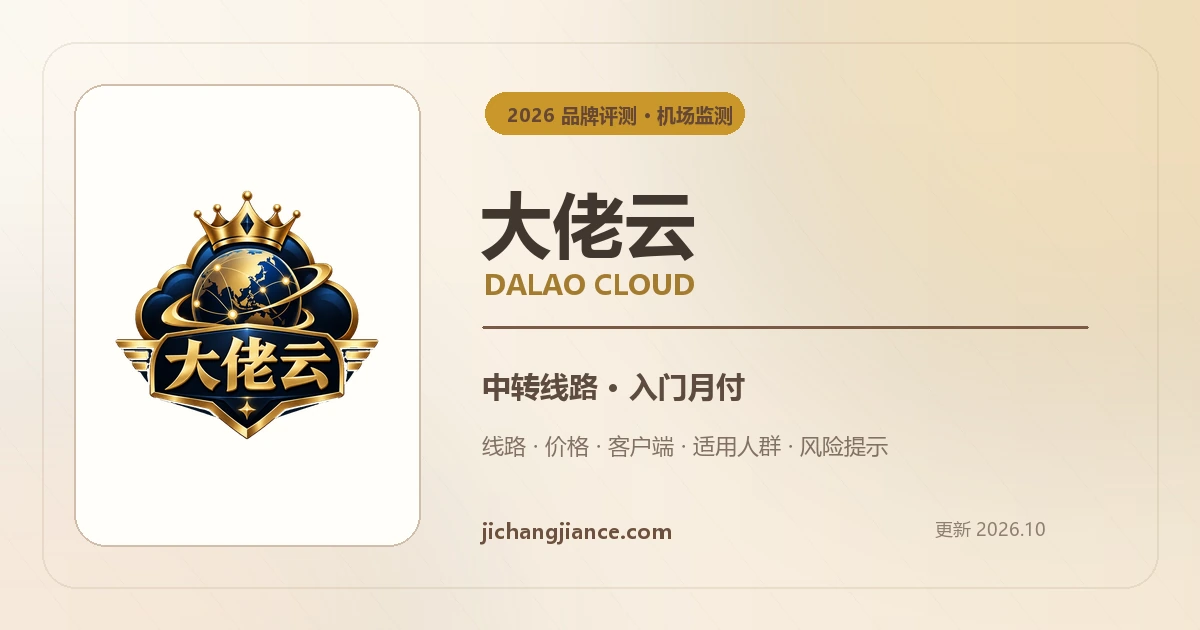
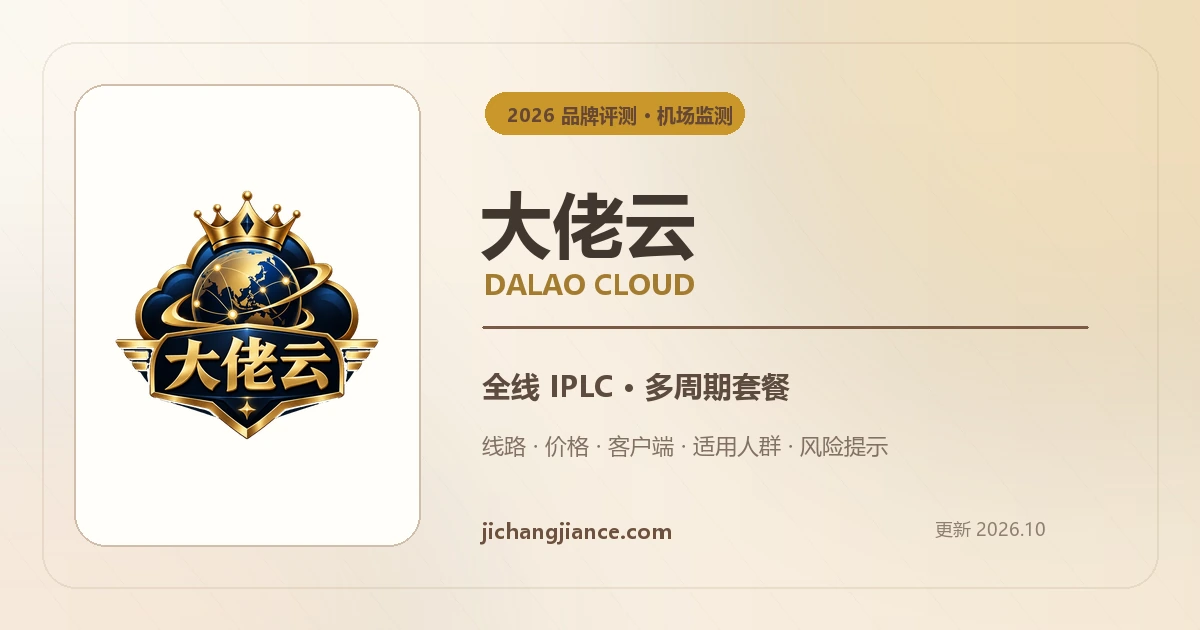
fix: update Dalao Cloud pricing

Changed region(s): [[0.4008, 0.573, 0.6783, 0.6333]]

diff --git a/src/data/brands.ts b/src/data/brands.ts
@@ -669,25 +669,28 @@ export const brands: BrandProfile[] = [
     logo: '/images/brands/logos/dalaoyun-logo.webp',
     cover: '/images/brands/covers/dalaoyun-cover-warm.webp',
     accent: '#c9972b',
-    recommendation: '入门中转型',
-    status: '性价比观察',
-    tagline: '动态中转 · Clash 订阅兼容',
-    description: '大佬云怎么样？整理大佬云 15 元起月付套餐、100GB 至 500GB 流量、动态中转、Clash 与 Shadowsocks 使用方式、优惠码 dly888 和适用人群。',
-    verdict: '适合需要基础中转线路、Clash 订阅和中等月流量的个人用户；公开资料更新节奏有限，建议先小额月付核验当前运营状态。',
-    lineArchitecture: '参考资料标注动态中转、30+ 节点和 Shadowsocks 协议；线路与节点会调整，应以购买后台和实际订阅为准。',
+    recommendation: 'IPLC 多档型',
+    status: '场景推荐',
+    tagline: '全线 IPLC · 原生 IP 与不限设备',
+    description: '大佬云怎么样？根据购买后台整理大佬云 19.99 元起月付套餐、96 元年付活动包、99/199 元一次性流量包、IPLC 专线、原生 IP、优惠码 dly888 和适用场景。',
+    verdict: '适合希望兼顾 IPLC 线路、原生 IP、多设备和灵活周期的用户；既有按月重置方案，也有年付轻量包与不限时一次性流量包。',
+    lineArchitecture: '购买后台标注全线 IPLC 专线、全节点 1 倍率、原生 IP、智能路由与不限设备同时在线；节点覆盖香港、台湾、日本、韩国、美国、新加坡及部分欧洲地区。',
     protocols: ['Shadowsocks'],
-    price: '¥15/月起（100GB）',
+    price: '¥19.99/月起；年付 ¥96',
     plans: [
-      { name: '基础套餐', price: '¥15/月', traffic: '100GB/月', note: '适合轻量浏览、聊天与基础视频' },
-      { name: '标准套餐', price: '¥20/月', traffic: '200GB/月', note: '适合个人日常使用与多端切换' },
-      { name: '进阶套餐', price: '¥30/月', traffic: '300GB/月', note: '适合中等频率视频和远程协作' },
-      { name: '高流量套餐', price: '¥50/月', traffic: '500GB/月', note: '适合更高流量需求，购买前核对设备限制' }
+      { name: '年付活动包', price: '¥96/年', traffic: '60GB/月', note: '折合约 8 元/月，全节点 1 倍率，每 30 天自动刷新流量' },
+      { name: '初云·福利版', price: '¥19.99/月', traffic: '100–120GB/月', note: '后台标签显示 100GB、说明区显示 120GB，付款前需核对最终口径' },
+      { name: '初云·进阶版', price: '¥25/月', traffic: '150GB/月', note: '全节点 1 倍率，适合日常浏览、AI 助手与影音娱乐' },
+      { name: '凌云·基础版', price: '¥43/月', traffic: '300GB/月', note: '覆盖多地区节点，适合日常、工作和学习' },
+      { name: '御云·高级版', price: '¥73/月', traffic: '600GB/月', note: '面向高强度使用与更高月流量需求' },
+      { name: '闲云·随心包', price: '¥99/次', traffic: '78GB 总量', note: '不限时、不按月重置，按实际使用扣减' },
+      { name: '悠云·长享包', price: '¥199/次', traffic: '160GB 总量', note: '不限时一次性流量包，适合长期低频使用' }
     ],
-    audience: ['Clash 用户', '个人日常浏览用户', '中等流量影音用户', '希望月付观察的用户'],
-    useCases: ['Clash 订阅', '日常网页与社交', '中等频率视频', '远程协作'],
-    strengths: ['15 元起的月付价格容易试用', '提供 100GB 至 500GB 四档流量', '公开资料标注支持 Clash 和 Shadowsocks', '提供用户确认的优惠码 dly888'],
-    considerations: ['参考资料显示同时在线设备数量可能较少，购买前应核对', '节点、线路与流媒体可用性可能变化', '公开评测更新时间不等于服务商当前状态', '首次使用优先月付，不建议仅因折扣选择多年周期'],
-    keywords: ['大佬云怎么样', '大佬云机场评测', '大佬云优惠码', '大佬云官网入口', '大佬云套餐价格', '15元机场', 'Clash机场推荐', 'Shadowsocks机场', '中转机场推荐'],
+    audience: ['轻量年付用户', '不限设备多端用户', '需要原生 IP 的影音与 AI 用户', '希望购买不限时流量包的低频用户'],
+    useCases: ['ChatGPT / Claude', 'Netflix / Disney+', '多设备与路由器', '长期低频备用'],
+    strengths: ['全线 IPLC 与全节点 1 倍率，流量成本更直观', '月付、年付和一次性流量包并存', '后台标注原生 IP、晚高峰不限速和不限设备', '提供用户确认的优惠码 dly888'],
+    considerations: ['福利版卡片与说明区分别显示 100GB 和 120GB，购买前必须核对', '不限设备仍应遵守个人合理使用与账号共享规则', '原生 IP 和流媒体解锁会随节点出口调整', '长周期或一次性套餐购买前应先验证常用节点和售后'],
+    keywords: ['大佬云怎么样', '大佬云机场评测', '大佬云优惠码', '大佬云官网入口', '大佬云套餐价格', '大佬云年付96元', '19.99元机场', 'IPLC专线机场', '原生IP机场', '一次性流量机场'],
     referralUrl: 'https://liu01.dalaoyunaff.com/#/?code=P8KlGHa6',
     couponCode: 'dly888',
     linkVerified: true,
@@ -697,24 +700,25 @@ export const brands: BrandProfile[] = [
     featured: true,
     sections: [
       {
-        title: '大佬云的套餐和定位',
+        title: '大佬云最新套餐怎么选？',
         paragraphs: [
-          '大佬云目前可参考的月付方案从 15 元 100GB 起，20 元提供 200GB，30 元提供 300GB，50 元提供 500GB。价格阶梯直观，适合按自己的实际月流量选择。',
-          '其公开定位更偏向个人中转与 Clash 使用，并不是以超大设备并发为核心。家庭共享或设备较多时，应在付款前确认同时在线限制。'
+          '月付套餐从初云·福利版 19.99 元开始，向上依次为 25 元 150GB、43 元 300GB 和 73 元 600GB。轻度用户还可以比较 96 元年付活动包，每 30 天刷新 60GB，折合约 8 元/月。',
+          '低频或备用需求可以关注 99 元 78GB 与 199 元 160GB 两个一次性流量包：流量不按月重置、使用期限标注为不限时，更适合长期慢慢使用。'
         ]
       },
       {
-        title: '为什么建议先月付核验？',
+        title: '线路、设备和解锁能力怎么看？',
         paragraphs: [
-          '机场线路与入口可能随时间变化，第三方文章中的节点数量、在线率和测试结果只能作为历史参考。更可靠的做法是用月付方案观察自己的本地运营商和常用时段。',
-          '连续测试应覆盖工作日晚高峰、周末和常用客户端，重点记录延迟、丢包、视频拖动以及故障后的恢复速度。'
+          '购买后台将全线 IPLC、原生 IP、全节点 1 倍率、智能路由与晚高峰不限速列为主要特点，并标注支持电脑、手机和路由器多端同时在线。',
+          '这些权益仍应通过自己的运营商和常用时段验证。建议先检查 ChatGPT、Claude、Netflix、Disney+ 的登录与连续使用，再决定是否购买年付或更高流量档。'
         ]
       }
     ],
     faq: [
       { question: '大佬云优惠码是什么？', answer: '本站当前记录的大佬云优惠码为 dly888，付款前请确认结算页已经应用优惠。' },
-      { question: '大佬云支持 Clash 吗？', answer: '参考资料标注支持 Clash 订阅和 Shadowsocks 协议，实际可导入格式应以当前后台为准。' },
-      { question: '大佬云适合多设备家庭吗？', answer: '公开资料中的设备并发信息较有限，多设备或家庭共享用户应在购买前向服务商确认同时在线规则。' }
+      { question: '大佬云最低多少钱？', answer: '当前月付最低参考价为 19.99 元；另有 96 元年付活动包，折合约 8 元/月。套餐价格和活动以结算页为准。' },
+      { question: '大佬云支持多设备吗？', answer: '购买后台标注不限设备同时在线，并兼容电脑、手机和路由器；仍应遵守服务商的个人使用与共享规则。' },
+      { question: '初云·福利版是 100GB 还是 120GB？', answer: '用户提供的后台截图中，套餐标签显示 100GB，但详情说明写着每月 120GB，存在两种口径。付款前应以订单确认页显示的最终流量为准。' }
     ]
   },
   {

diff --git a/scripts/generate-brand-covers.py b/scripts/generate-brand-covers.py
@@ -25,7 +25,7 @@ BRANDS = [
     ("huanyuyun", "环宇云", "HUANYUN CLOUD", "全球节点 · 资料待核验", "huanyuyun-logo.webp", "39bfe8"),
     ("kunpeng", "鲲鹏加速", "KUNPENG JIASU", "性价比专线 · 全球原生节点", "kunpeng-logo.webp", "1a6bc8"),
     ("liulianyun", "榴莲云", "LIULIAN CLOUD", "低价专线 · 多地区流媒体", "liulianyun-logo.webp", "7aaa1c"),
-    ("dalaoyun", "大佬云", "DALAO CLOUD", "中转线路 · 入门月付", "dalaoyun-logo.webp", "c9972b"),
+    ("dalaoyun", "大佬云", "DALAO CLOUD", "全线 IPLC · 多周期套餐", "dalaoyun-logo.webp", "c9972b"),
     ("shandianshu", "闪电鼠", "SHANDIANSHU", "多端兼容 · 全球节点", "shandianshu-logo.webp", "f2b400"),
     ("huanqiuti", "环球梯", "GLOBAL LADDER", "低门槛月付 · 多地区节点", "huanqiuti-logo.webp", "2e93db"),
     ("shenxing", "神行加速", "SHENXING ACCELERATION", "大流量月付 · 多设备使用", "shenxing-logo.webp", "ff6b21"),
